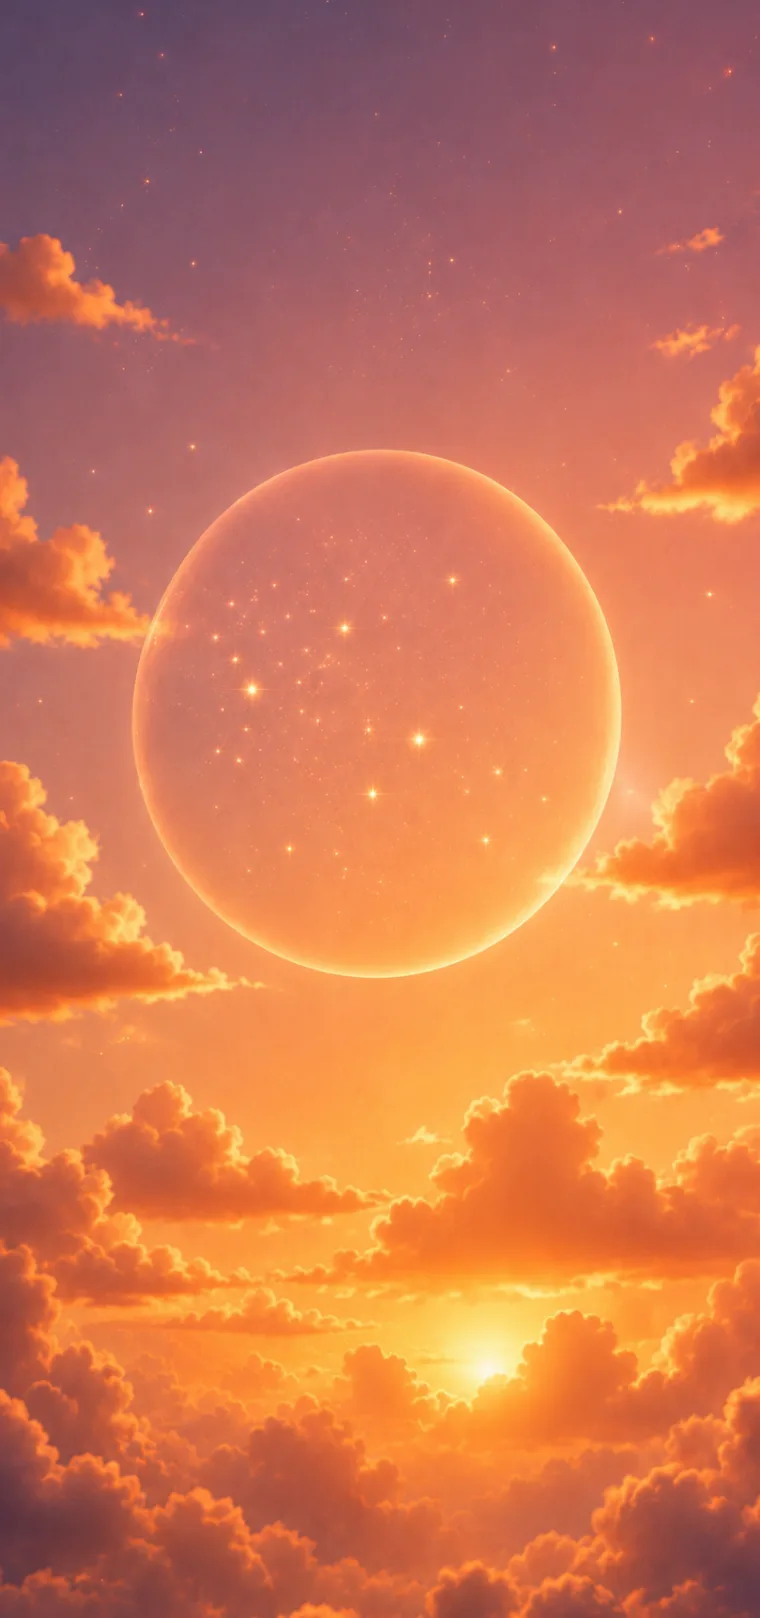
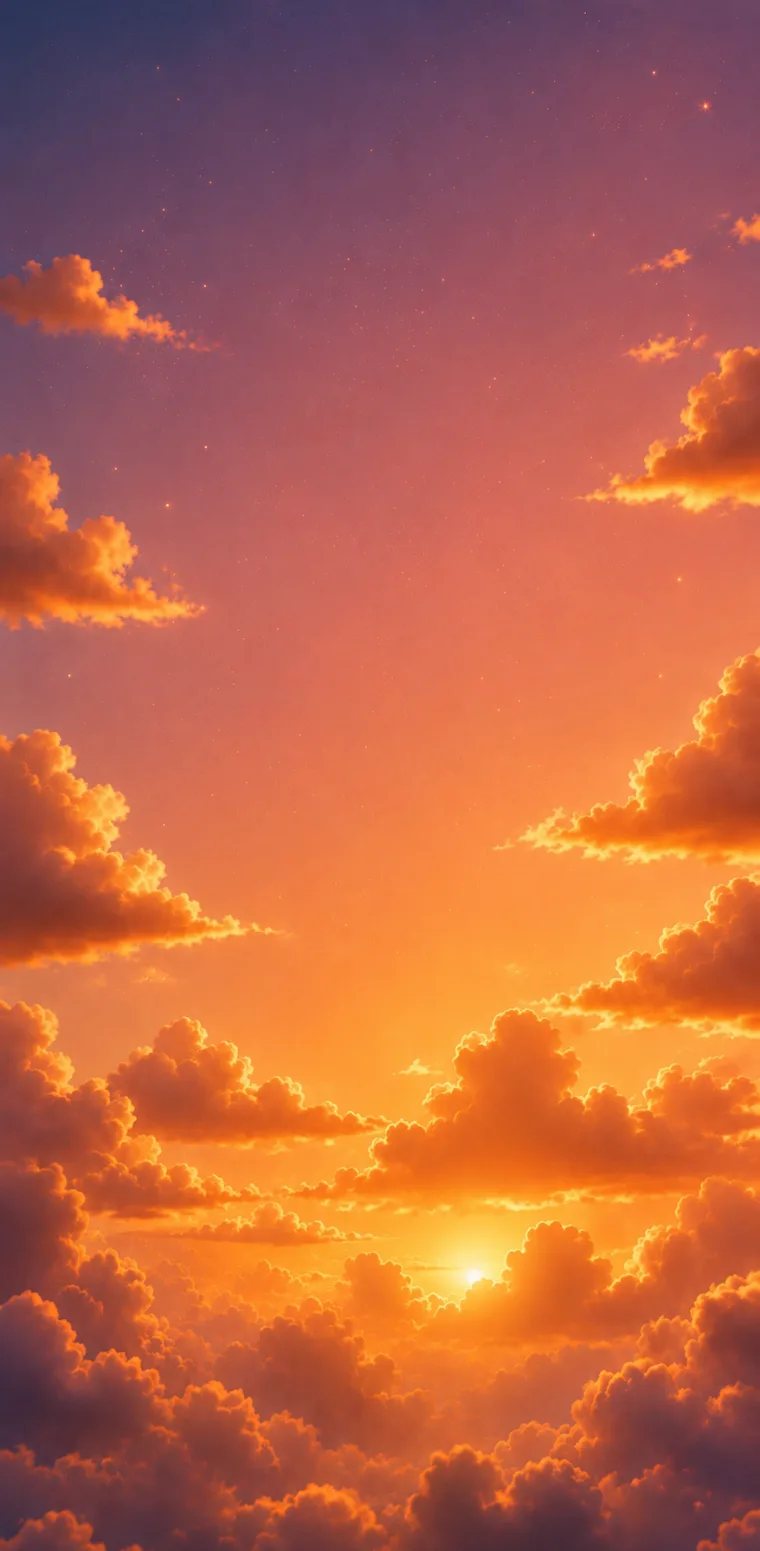
Céus sem esfera + a bolha passa a ser desenhada pelo app
Troca as 5 artes por versões só com céu e liga o BabyOrb. Agora a bolha
fica exatamente centrada no bebê em qualquer tela — antes ela vinha
pintada dentro de cada imagem, em posição e tamanho diferentes, e o bebê
não caía dentro dela em nenhuma.

Estas imagens vieram sem a moldura arredondada do mockup, então não
precisaram de recorte — só redimensionar e converter (9,7 MB → 361 KB).

O aro da bolha é largo e difuso, não uma linha de 1px: um anel nítido
demais lê como círculo desenhado em vez de bolha de luz. E o miolo é
quase transparente, com a luz se acumulando perto da borda — é isso que
faz ler como esfera e não como disco chapado.

Claude-Session: https://claude.ai/code/session_01BJM25tJAqQNE1gvk3FSNXP

diff --git a/src/components/app-mobile-shell.tsx b/src/components/app-mobile-shell.tsx
@@ -507,15 +507,16 @@ const DREAM_VEIL =
   " rgba(255,193,158,0.74) 72%, rgba(255,224,199,0.82) 100%)";
 
 /**
- * As artes atuais têm a bolha PINTADA dentro delas — em posição e tamanho
- * diferentes em cada uma, e nenhuma centrada. Como o bebê é uma camada de UI
- * centrada na tela, ele não cai dentro da bolha nas cinco, e desenhar uma
- * segunda bolha por cima dava duas esferas cruzadas.
+ * As artes são SÓ CÉU — a bolha é desenhada aqui (`BabyOrb`), e é por isso que
+ * ela fica sempre exatamente centrada no bebê, em qualquer tela, e pode
+ * respirar. Na primeira leva a esfera vinha pintada dentro de cada imagem, em
+ * posição e tamanho diferentes: o bebê não caía dentro dela em nenhuma, e
+ * desenhar outra por cima dava duas esferas cruzadas.
  *
- * Quando as artes forem regeradas SÓ COM CÉU (sem esfera), troque para `false`:
- * o `BabyOrb` abaixo assume, sempre centrado no bebê e respirando.
+ * Se algum dia entrar uma arte COM esfera pintada, volte para `true` — senão a
+ * bolha desenhada aparece por cima da pintada e o defeito volta.
  */
-const ART_HAS_ORB = true;
+const ART_HAS_ORB = false;
 
 /** A bolha desenhada pelo app: sempre centrada no bebê, com aro e respiração. */
 function BabyOrb() {
@@ -527,12 +528,15 @@ function BabyOrb() {
         width: "min(19rem, 35svh)",
         height: "min(19rem, 35svh)",
         background:
-          "radial-gradient(circle at 50% 44%, rgba(255,255,255,0.34) 0%," +
-          " rgba(255,246,250,0.20) 52%, rgba(255,228,240,0.12) 78%, rgba(255,255,255,0) 100%)",
+          // O miolo é quase transparente e a luz se acumula perto da borda: é
+          // isso que faz ler como ESFERA e não como disco chapado.
+          "radial-gradient(circle at 50% 46%, rgba(255,255,255,0.10) 0%," +
+          " rgba(255,252,254,0.13) 58%, rgba(255,246,251,0.30) 86%," +
+          " rgba(255,255,255,0.46) 96%, rgba(255,255,255,0) 100%)",
         boxShadow:
-          // aro nítido (o conceito tem um anel luminoso bem definido) + halo
-          "inset 0 0 0 1.5px rgba(255,255,255,0.72), inset 0 0 34px 6px rgba(255,255,255,0.22)," +
-          " 0 0 46px 10px rgba(255,238,246,0.28)",
+          // Aro largo e difuso em vez de linha de 1px: um anel nítido demais
+          // lê como círculo desenhado, não como bolha de luz.
+          "inset 0 0 26px 4px rgba(255,255,255,0.40), 0 0 54px 14px rgba(255,240,248,0.30)",
       }}
     />
   );
